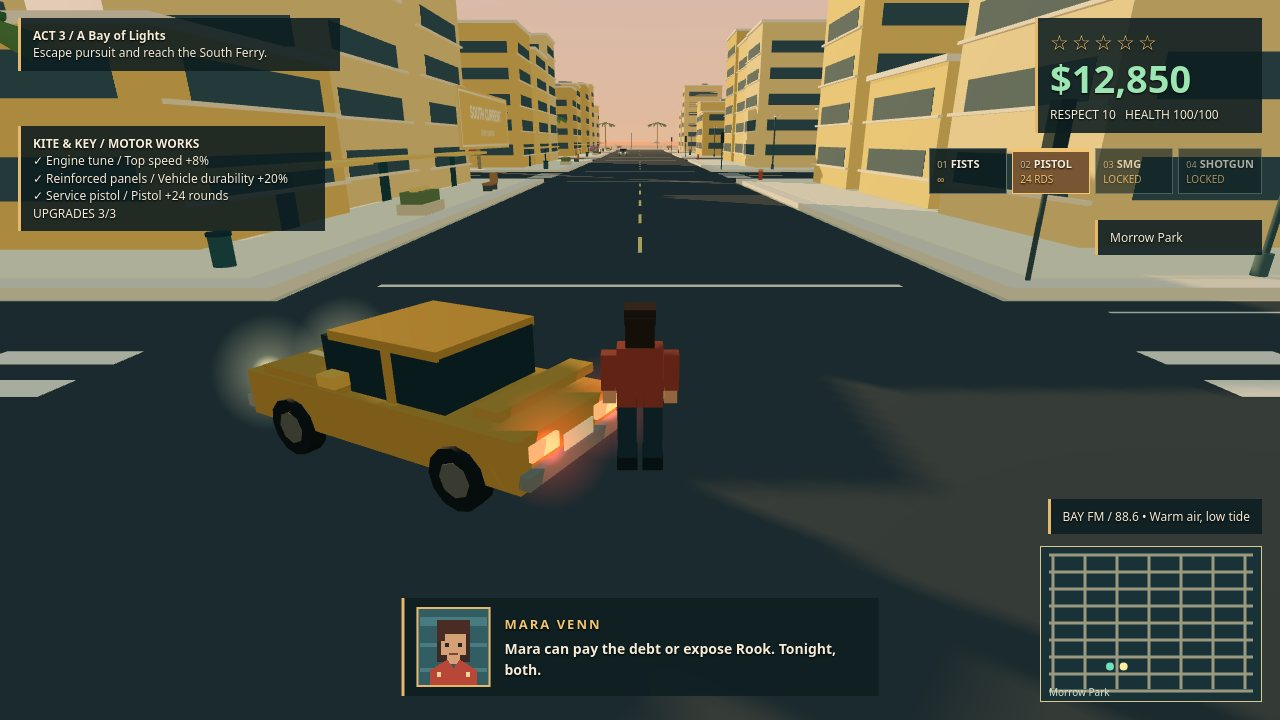
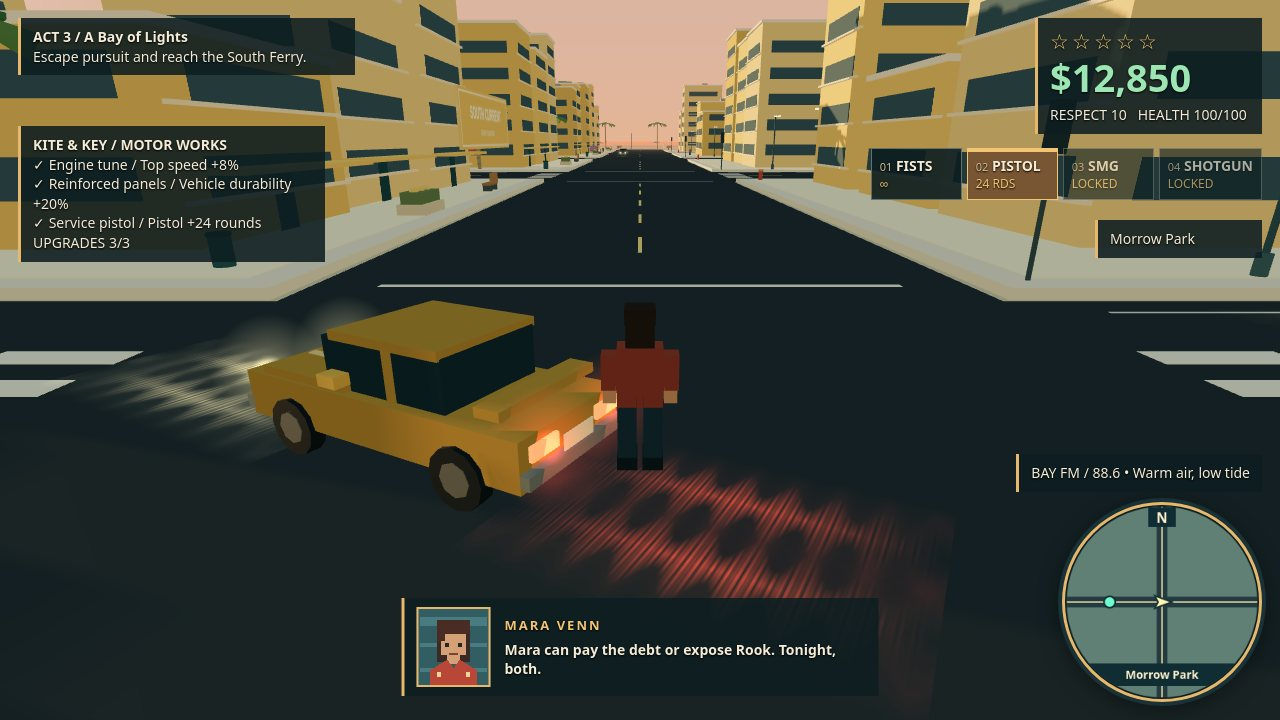
v2 phase 6: polish pass 2 (heli scale, circular minimap, explosion, wet road, lighting)

diff --git a/game/src/ui/Hud.js b/game/src/ui/Hud.js
@@ -1,4 +1,4 @@
-const style = `position:fixed;color:#f4ecd7;background:rgba(14,30,34,.88);border-left:3px solid #e6b86e;padding:9px 12px;font:12px/1.45 system-ui,sans-serif;letter-spacing:0;max-width:310px;text-shadow:0 1px 2px #000`;
+const style = `position:fixed;color:#f4ecd7;background:rgba(14,30,34,.88);border-left:3px solid #e6b86e;padding:9px 12px;font:14px/1.4 system-ui,sans-serif;letter-spacing:0;max-width:310px;text-shadow:0 1px 2px #000`;
 
 // Original pixel busts stay sharp at contact-sheet scale without image requests.
 function portrait(speaker) {
@@ -17,29 +17,46 @@ export class Hud {
   constructor() {
     this.nodes = Object.fromEntries(['mission','status','dispatch','garage','minimap','vehicle','dialogue','radio','weapons'].map(id => [id, document.getElementById(id)]));
     for (const node of Object.values(this.nodes)) { node.style.cssText = style; }
-    Object.assign(this.nodes.mission.style, { left: '18px', top: '18px', width: '295px' });
+    Object.assign(this.nodes.mission.style, { left: '18px', top: '18px', width: '310px' });
     Object.assign(this.nodes.status.style, { right: '18px', top: '18px', minWidth: '200px' });
     Object.assign(this.nodes.dispatch.style, { left: '18px', top: '126px', width: '260px' });
     Object.assign(this.nodes.garage.style, { left: '18px', top: '126px', width: '280px' });
-    Object.assign(this.nodes.minimap.style, { right: '18px', bottom: '18px', width: '220px', height: '154px', padding: '0', border: '1px solid #dbc68e' });
+    Object.assign(this.nodes.minimap.style, { right: '18px', bottom: '18px', width: '194px', height: '194px', padding: '0', border: '3px solid #e6b86e', borderRadius: '50%', overflow: 'hidden', boxShadow: '0 0 0 4px #183238, 0 5px 22px #0008' });
     Object.assign(this.nodes.vehicle.style, { right: '18px', top: '220px', minWidth: '140px' });
     Object.assign(this.nodes.dialogue.style, { left: '50%', bottom: '24px', transform: 'translateX(-50%)', width: 'min(450px, 64vw)', maxWidth: '450px', display: 'flex', alignItems: 'center', gap: '14px', fontSize: '14px' });
-    Object.assign(this.nodes.radio.style, { right: '18px', bottom: '186px' });
+    Object.assign(this.nodes.radio.style, { right: '18px', bottom: '228px' });
     Object.assign(this.nodes.weapons.style, { right: '18px', top: '148px', maxWidth: 'none', display: 'flex', gap: '5px', padding: '0', border: 'none', background: 'none' });
-    this.nodes.minimap.innerHTML = '<canvas width="220" height="154" aria-label="District minimap"></canvas>';
+    this.nodes.minimap.innerHTML = '<canvas width="240" height="240" aria-label="Circular district minimap with police search zone"></canvas>';
     this.map = this.nodes.minimap.querySelector('canvas').getContext('2d');
   }
   drawMap(snapshot, city, police) {
-    const c = this.map; c.clearRect(0,0,220,154); c.fillStyle='#183238'; c.fillRect(0,0,220,154);
-    c.strokeStyle='#9c9880'; c.lineWidth=3;
-    for (let x=0;x<7;x++){const px=12+x*32;c.beginPath();c.moveTo(px,8);c.lineTo(px,142);c.stroke();}
-    for (let y=0;y<9;y++){const py=8+y*17;c.beginPath();c.moveTo(8,py);c.lineTo(212,py);c.stroke();}
-    const point=(x,z,color,r)=>{c.fillStyle=color;c.beginPath();c.arc(110+(x/500)*190,77+(z/660)*130,r,0,Math.PI*2);c.fill();};
-    for(const car of police.units)point(car.position.x,car.position.z,'#ec6c59',3);
-    point(snapshot.player.x,snapshot.player.z,'#fff0a1',4);
-    if(snapshot.mission.active)point(snapshot.mission.active.target.x,snapshot.mission.active.target.z,'#70dfba',4);
-    c.fillStyle='#d3dfce';c.font='10px system-ui';c.fillText(snapshot.district.name,8,149);
+    const c = this.map, size = 240, mid = 120, scale = 1.8;
+    c.clearRect(0,0,size,size); c.save(); c.beginPath(); c.arc(mid,mid,118,0,Math.PI*2); c.clip();
+    c.fillStyle='#608076'; c.fillRect(0,0,size,size);
+    const xy = (x,z) => [mid+(x-snapshot.player.x)*scale, mid+(z-snapshot.player.z)*scale];
+    c.strokeStyle='#213b40'; c.lineWidth=13;
+    for (const x of city.roadsX) {const [px]=xy(x,0);c.beginPath();c.moveTo(px,0);c.lineTo(px,size);c.stroke();}
+    for (const z of city.roadsZ) {const [,py]=xy(0,z);c.beginPath();c.moveTo(0,py);c.lineTo(size,py);c.stroke();}
+    c.strokeStyle='#c0b78f'; c.lineWidth=2;
+    for (const x of city.roadsX) {const [px]=xy(x,0);c.beginPath();c.moveTo(px,0);c.lineTo(px,size);c.stroke();}
+    for (const z of city.roadsZ) {const [,py]=xy(0,z);c.beginPath();c.moveTo(0,py);c.lineTo(size,py);c.stroke();}
+    if(snapshot.wanted.level) {
+      c.beginPath(); c.arc(mid+12,mid-8,71,0,Math.PI*2);
+      c.fillStyle='rgba(243,93,66,.25)'; c.fill();
+      c.setLineDash([8,5]);c.strokeStyle='#ffab77';c.lineWidth=4;c.stroke();c.setLineDash([]);
+    }
+    const point=(x,z,color,r)=>{let [px,py]=xy(x,z);const d=Math.hypot(px-mid,py-mid);if(d>99){px=mid+(px-mid)*99/d;py=mid+(py-mid)*99/d;}c.beginPath();c.arc(px,py,r,0,Math.PI*2);c.fillStyle=color;c.fill();c.strokeStyle='#132c32';c.lineWidth=2;c.stroke();};
+    for(const car of police.units)point(car.position.x,car.position.z,'#ff7868',5);
+    if(snapshot.mission.active)point(snapshot.mission.active.target.x,snapshot.mission.active.target.z,'#70ffce',7);
+    c.save();c.translate(mid,mid);c.rotate(-(snapshot.player.heading || 0));
+    c.beginPath();c.moveTo(0,-12);c.lineTo(8,9);c.lineTo(0,5);c.lineTo(-8,9);c.closePath();c.fillStyle='#fff4b0';c.fill();c.strokeStyle='#183238';c.lineWidth=2;c.stroke();c.restore();
+    c.textAlign='center';c.font='bold 17px system-ui';
+    c.fillStyle='#102d34';c.fillRect(103,3,34,24);c.fillStyle='#fff1cc';c.fillText('N',120,22);
+    c.fillStyle='#102d34';c.fillRect(17,196,206,28);c.fillStyle='#fff1cc';
+    c.font='bold 14px system-ui';c.fillText(snapshot.wanted.level?'SEARCH ZONE':snapshot.district.name,120,215);
+    c.restore();
   }
+
   update(snapshot, city, dispatch, police) {
     const mission=snapshot.mission; this.nodes.mission.innerHTML=mission.active?`<b>ACT ${mission.active.act} / ${mission.active.name}</b><br>${mission.active.objective}`:'<b>STORY / Select a job</b>';
     const stars='★'.repeat(snapshot.wanted.level)+'☆'.repeat(5-snapshot.wanted.level);
@@ -50,7 +67,7 @@ export class Hud {
     if (police.heli) rows.push({ name:'Air 1', distance:distance(police.heli.root.position), status:'SEARCHLIGHT', color:'#438cb0' });
     rows.sort((a,b)=>a.distance-b.distance);
     const message = dispatch.snapshot()[0];
-    this.nodes.dispatch.innerHTML=rows.length?`<div style="display:flex;justify-content:space-between;border-bottom:1px solid #69706a;padding-bottom:7px;margin-bottom:5px;letter-spacing:1px"><b>VBPD / DISPATCH</b><span>${rows.length} UNITS</span></div>${rows.map(row=>`<div style="display:grid;grid-template-columns:1fr 44px 96px;gap:6px;align-items:center;margin:5px 0"><b>${row.name}</b><span style="text-align:right">${row.distance} m</span><b style="background:${row.color};padding:2px 4px;text-align:center;font-size:10px;letter-spacing:.5px">${row.status}</b></div>`).join('')}${message?`<div style="font-size:10px;color:#c9c9b6;border-top:1px solid #69706a;padding-top:6px;margin-top:7px">${message.text}</div>`:''}`:'';
+    this.nodes.dispatch.innerHTML=rows.length?`<div style="display:flex;justify-content:space-between;border-bottom:1px solid #69706a;padding-bottom:7px;margin-bottom:5px;letter-spacing:1px"><b>VBPD / DISPATCH</b><span>${rows.length} UNITS</span></div>${rows.map(row=>`<div style="display:grid;grid-template-columns:1fr 36px 106px;gap:6px;align-items:center;margin:5px 0"><b>${row.name}</b><span style="text-align:right">${row.distance} m</span><b style="background:${row.color};padding:2px 4px;text-align:center;font-size:12px;letter-spacing:.3px">${row.status}</b></div>`).join('')}${message?`<div style="font-size:10px;color:#c9c9b6;border-top:1px solid #69706a;padding-top:6px;margin-top:7px">${message.text}</div>`:''}`:'';
     const owned=snapshot.shop.catalog.filter(item=>item.owned);
     this.nodes.garage.innerHTML=owned.length?`<b>KITE &amp; KEY / MOTOR WORKS</b><br>${owned.map(item=>`✓ ${item.name} / ${item.effect}`).join('<br>')}<br>UPGRADES ${owned.length}/${snapshot.shop.catalog.length}`:'';
     this.nodes.vehicle.innerHTML=snapshot.player.mode==='driving'?`<b style="color:#f1c573;letter-spacing:1px">${snapshot.vehicleName.toUpperCase()}</b><div><b style="font-size:60px;line-height:1.05;font-variant-numeric:tabular-nums">${Math.round(Math.abs(snapshot.player.speed)*3.6)}</b> <b>km/h</b></div>`:snapshot.district.name;
@@ -59,7 +76,7 @@ export class Hud {
     const line = dialogue.includes(' / ') ? dialogue.split(' / ').slice(1).join(' / ') : dialogue;
     this.nodes.dialogue.innerHTML=`${portrait(speaker)}<div><b style="color:#f1c573;letter-spacing:2px;font-size:13px">${speaker}</b><div style="font-weight:650;margin-top:5px">${line}</div></div>`;
     this.nodes.radio.textContent='BAY FM / 88.6  •  Warm air, low tide';
-    this.nodes.weapons.innerHTML=[['FISTS','∞','punch'],['PISTOL',`${snapshot.combat.ammo} RDS`,'pistol'],['SMG','LOCKED','locked'],['SHOTGUN','LOCKED','locked']].map(([name,ammo,key],index)=>`<div style="min-width:62px;padding:6px 7px;border:1px solid ${snapshot.combat.weapon===key?'#f1c573':'#65716a'};background:${snapshot.combat.weapon===key?'#795633':'rgba(14,30,34,.9)'};box-shadow:${snapshot.combat.weapon===key?'inset 0 3px #f1c573':'none'};opacity:${key==='locked'?.65:1}"><span style="font-size:9px;color:#cfbd95">0${index+1}</span> <b style="font-size:11px">${name}</b><div style="font-size:10px;color:#f1c573">${ammo}</div></div>`).join('');
+    this.nodes.weapons.innerHTML=[['FISTS','∞','punch'],['PISTOL',`${snapshot.combat.ammo} RDS`,'pistol'],['SMG','LOCKED','locked'],['SHOTGUN','LOCKED','locked']].map(([name,ammo,key],index)=>`<div style="min-width:73px;padding:7px 8px;border:1px solid ${snapshot.combat.weapon===key?'#f1c573':'#65716a'};background:${snapshot.combat.weapon===key?'#795633':'rgba(14,30,34,.9)'};box-shadow:${snapshot.combat.weapon===key?'inset 0 3px #f1c573':'none'};opacity:${key==='locked'?.65:1}"><span style="font-size:11px;color:#cfbd95">0${index+1}</span> <b style="font-size:14px">${name}</b><div style="font-size:12px;color:#f1c573">${ammo}</div></div>`).join('');
     this.drawMap(snapshot,city,police);
   }
 }

diff --git a/game/src/shots/ShotScenes.js b/game/src/shots/ShotScenes.js
@@ -1,3 +1,5 @@
+import { VehicleFire } from '../render/VehicleFire.js';
+
 const STAGES = {
   coverHeliChase: { x: 72, z: -72, hour: 17.2, money: 4280, respect: 2, wanted: 3, mission: 2, driving: true, health: 79, ammo: 19, heli: true },
   driveCarjacking: { x: -72, z: 72, hour: 16.4, money: 5350, respect: 4, wanted: 1, mission: 5, driving: true, health: 92, ammo: 22 },
@@ -9,6 +11,11 @@ export function createShotScenes(app) {
   const stage = name => {
     const config = STAGES[name]; if (!config) throw Error(`Unknown ShotScene: ${name}`);
     const { state, player, vehicles, systems } = app;
+    app.vehicleFire?.dispose(app.scene); app.vehicleFire = null;
+    if (app.burnedCar) {
+      app.scene.remove(app.burnedCar.group);
+      vehicles.cars.splice(vehicles.cars.indexOf(app.burnedCar), 1); app.burnedCar = null;
+    }
     for (const car of [...systems.police.units]) {
       app.scene.remove(car.group);
       app.vehicles.cars.splice(app.vehicles.cars.indexOf(car), 1);
@@ -24,6 +31,10 @@ export function createShotScenes(app) {
       systems.weapons.spawnEnemy(config.x + 4.2, config.z - 6.5, 3, { aimAt: player.target, muzzleFlash: true });
       systems.weapons.spawnEnemy(config.x - 4.2, config.z - 7.5, 2, { aimAt: player.target });
     }
+    if (config.enemies) {
+      app.burnedCar = vehicles.spawn(config.x + 7.5, config.z - 17, -0.65, { model: 0, color: '#302c29' });
+      app.vehicleFire = new VehicleFire(app.scene, config.x + 7.5, config.z - 18);
+    }
     if (config.driving) {
       let car = player.car;
       if (!car) { car = vehicles.spawn(config.x, config.z, -0.3, { model: 0, color: '#b94737' }); vehicles.acquire(car); player.car = car; player.avatar.visible = false; }
@@ -35,7 +46,9 @@ export function createShotScenes(app) {
       systems.wanted.commitCrime(3); systems.wanted.setLevel(3);
       systems.dispatch.messages = [{ callsign: 'Harbor 12', text: 'Air unit has a visual. Road control ahead. All units converge.', district: state.city.districtAt(config.x,config.z).name, age: 0 }];
       systems.police.ensure(3, player);
-      systems.police.heli.offset = { x: 2, y: -5, z: -15 };
+      systems.police.heli.root.scale.setScalar(2.1);
+      systems.police.heli.offset = { x: 1, y: -11, z: -11 };
+      systems.police.heli.yawOffset = 0.65;
       const pursuit = systems.police.units[0];
       pursuit.position.set(player.target.x + Math.sin(player.facing) * 8, 0.12, player.target.z + Math.cos(player.facing) * 8);
       pursuit.heading = player.facing; pursuit.shotPursuitSpeed = 19; app.vehicles.animate(pursuit, 0);

diff --git a/game/src/render/VehicleFire.js b/game/src/render/VehicleFire.js
@@ -1,0 +1,45 @@
+import * as THREE from 'three';
+
+// Procedural particles only: no downloaded textures or postprocessing pass.
+export class VehicleFire {
+  constructor(scene, x, z) {
+    this.root = new THREE.Group(); this.root.name = 'Burning getaway car / flame and smoke';
+    this.root.position.set(x, 0, z); scene.add(this.root);
+    this.time = 1.7; this.particles = [];
+    const canvas = document.createElement('canvas'); canvas.width = canvas.height = 64;
+    const c = canvas.getContext('2d'), gradient = c.createRadialGradient(32,32,0,32,32,32);
+    gradient.addColorStop(0,'#ffffffff'); gradient.addColorStop(.25,'#ffffffee');
+    gradient.addColorStop(.6,'#ffffff66'); gradient.addColorStop(1,'#ffffff00');
+    c.fillStyle=gradient; c.fillRect(0,0,64,64); this.texture=new THREE.CanvasTexture(canvas);
+    for(let i=0;i<10;i++) {
+      const sprite=new THREE.Sprite(new THREE.SpriteMaterial({map:this.texture,color:i%3===0?'#fff3a5':'#ff680b',blending:THREE.AdditiveBlending,transparent:true,depthWrite:false,toneMapped:false}));
+      this.root.add(sprite);this.particles.push({sprite,smoke:false,index:i});
+    }
+    for(let i=0;i<7;i++) {
+      const sprite=new THREE.Sprite(new THREE.SpriteMaterial({map:this.texture,color:i%2?'#322d32':'#51404a',transparent:true,opacity:.72,depthWrite:false}));
+      this.root.add(sprite);this.particles.push({sprite,smoke:true,index:i});
+    }
+    this.light=new THREE.PointLight('#ff7924',95,24,1.5);this.light.position.set(0,2.3,0);this.root.add(this.light);
+    this.update(0);
+  }
+  update(dt) {
+    this.time+=dt;
+    for(const {sprite,smoke,index:i} of this.particles) {
+      const wave=Math.sin(this.time*7+i*2.3);
+      if(smoke) {
+        const rise=(this.time*.2+i/7)%1;
+        sprite.position.set(.4+rise*1.7+Math.sin(i*2)*.5,3+rise*7,Math.cos(i*2)*.7);
+        sprite.scale.set(2.4+rise*3.2,2.8+rise*3.5,1);sprite.material.opacity=.65*(1-rise*.8);
+      } else {
+        const h=1.3+(i%4)*.65+wave*.2;
+        sprite.position.set(Math.sin(i*2.4)*1.15,h,Math.cos(i*2.4)*1.2);
+        sprite.scale.set(1.15+(i%3)*.35,2.8+wave*.6+(i%3)*.7,1);
+      }
+    }
+    this.light.intensity=95+Math.sin(this.time*11)*15;
+  }
+  dispose(scene) {
+    scene.remove(this.root);this.texture.dispose();
+    this.particles.forEach(({sprite})=>sprite.material.dispose());this.light.dispose();
+  }
+}

diff --git a/game/src/police/PoliceAI.js b/game/src/police/PoliceAI.js
@@ -16,6 +16,14 @@ export class PoliceAI {
     const tail = new THREE.Mesh(new THREE.CylinderGeometry(0.22, 0.32, 4.1, 8), this.material); tail.rotation.x = Math.PI / 2; tail.position.set(0, 9.08, -3.65); root.add(tail);
     const fin = new THREE.Mesh(new THREE.BoxGeometry(0.2, 1.15, 0.72), this.material); fin.position.set(0, 9.5, -5.38); root.add(fin);
     const stabilizer = new THREE.Mesh(new THREE.BoxGeometry(2.25, 0.12, 0.7), this.material); stabilizer.position.set(0, 9.05, -5.05); root.add(stabilizer);
+    for (const x of [-1.25, 1.25]) {
+      const skid = new THREE.Mesh(new THREE.CylinderGeometry(0.07, 0.07, 4.8, 6), this.material);
+      skid.rotation.x = Math.PI / 2; skid.position.set(x, 7.95, 0.1); root.add(skid);
+      for (const z of [-1, 1]) {
+        const strut = new THREE.Mesh(new THREE.CylinderGeometry(0.06, 0.06, 0.8, 6), this.material);
+        strut.position.set(x, 8.3, z); root.add(strut);
+      }
+    }
     const lamp = new THREE.SpotLight('#fff0b2', 2.5, 75, Math.PI / 7, 0.5, 1.2);
     lamp.position.set(0, 8.4, 1.8); lamp.target.position.set(0, 0, -5); root.add(lamp, lamp.target);
     const rotor = new THREE.Mesh(new THREE.BoxGeometry(8, 0.08, 0.16), this.blue); rotor.position.y = 9.8; root.add(rotor);
@@ -65,7 +73,7 @@ export class PoliceAI {
       const root = this.heli.root;
       const offset = this.heli.offset;
       root.position.set(player.target.x + offset.x, offset.y, player.target.z + offset.z);
-      root.rotation.y = player.facing;
+      root.rotation.y = player.facing + (this.heli.yawOffset || 0);
       this.heli.rotor.rotation.y += dt * 18;
       root.updateMatrixWorld(true);
       const target = player.target.clone();

diff --git a/game/src/render/SkyAndSun.js b/game/src/render/SkyAndSun.js
@@ -19,8 +19,8 @@ const SKY_FRAGMENT = `
     float altitude = max(0.0, direction.y);
     vec3 color = mix(horizon, zenith, pow(altitude, 0.48));
     float alignment = max(0.0, dot(direction, sunDirection));
-    float glow = pow(alignment, 18.0) * 0.35;
-    float disc = smoothstep(0.9993, 0.99965, alignment);
+    float glow = pow(alignment, 12.0) * 0.65;
+    float disc = smoothstep(0.9988, 0.99955, alignment);
     color += solarColor * (glow + disc * 1.5);
     gl_FragColor = vec4(color, 1.0);
     #include <tonemapping_fragment>
@@ -82,14 +82,14 @@ export class SkyAndSun {
     const daylight = THREE.MathUtils.smoothstep(elevation, -0.13, 0.22);
     const golden = 1 - THREE.MathUtils.smoothstep(Math.max(0, elevation), 0.15, 0.65);
     // Sunset toward the northwest, visible along the principal boulevards.
-    this.sunDirection.set(-Math.cos(arc) * 0.65, Math.max(-0.2, elevation), -0.75).normalize();
+    this.sunDirection.set(-Math.cos(arc) * 0.30, Math.max(-0.2, elevation * 0.38), -0.95).normalize();
     const nightZenith = new THREE.Color('#142b48');
     const dayZenith = new THREE.Color('#76b7cc');
     const warmZenith = new THREE.Color('#d69a82');
     const dayHorizon = new THREE.Color('#d7ddd1');
-    const warmHorizon = new THREE.Color('#ff934d');
+    const warmHorizon = new THREE.Color('#ff853f');
     const nightHorizon = new THREE.Color('#63586b');
-    dayZenith.lerp(warmZenith, golden * 0.75);
+    dayZenith.lerp(warmZenith, golden * 0.9);
     dayHorizon.lerp(warmHorizon, golden);
     this.uniforms.zenith.value.copy(nightZenith).lerp(dayZenith, daylight);
     this.uniforms.horizon.value.copy(nightHorizon).lerp(dayHorizon, daylight);

diff --git a/game/src/render/RoadSheen.js b/game/src/render/RoadSheen.js
@@ -1,0 +1,23 @@
+import * as THREE from 'three';
+
+// Broken, stretched light decals approximate reflections without a render target.
+let texture;
+export function reflectedLight(color, width = 0.8, length = 5, opacity = 0.5) {
+  if (!texture) {
+    const canvas=document.createElement('canvas');canvas.width=64;canvas.height=256;
+    const c=canvas.getContext('2d');
+    for(let y=0;y<256;y++) {
+      const fade=Math.pow(Math.sin(y/256*Math.PI),1.4);
+      const ripple=.55+.45*Math.sin(y*1.73)*Math.sin(y*.39);
+      const w=15+Math.sin(y*.21)*7;
+      const g=c.createLinearGradient(0,0,64,0);
+      g.addColorStop(0,'#fff0');g.addColorStop(.5-w/64,'#fff1');
+      g.addColorStop(.5,`rgba(255,255,255,${fade*ripple})`);
+      g.addColorStop(.5+w/64,'#fff1');g.addColorStop(1,'#fff0');
+      c.fillStyle=g;c.fillRect(0,y,64,1);
+    }
+    texture=new THREE.CanvasTexture(canvas);
+  }
+  const mesh=new THREE.Mesh(new THREE.PlaneGeometry(width,length),new THREE.MeshBasicMaterial({map:texture,color,transparent:true,opacity,blending:THREE.AdditiveBlending,depthWrite:false,toneMapped:false}));
+  mesh.rotation.x=-Math.PI/2;mesh.renderOrder=2;return mesh;
+}

diff --git a/game/src/world/Props.js b/game/src/world/Props.js
@@ -1,4 +1,5 @@
 import * as THREE from 'three';
+import { reflectedLight } from '../render/RoadSheen.js';
 import { GeometryBatch, seededRandom, makeSign } from './Geometry.js';
 
 /** Street furniture builds a readable human scale around the road network. */
@@ -56,7 +57,13 @@ export class Props {
     const dx = Math.sin(angle) * 1.2;
     const dz = Math.cos(angle) * 1.2;
     this.box('#486469', x + dx / 2, 7.1, z + dz / 2, 0.16, 0.16, 1.5, angle);
-    this.box('#f7deb1', x + dx, 7.05, z + dz, 0.65, 0.18, 1.05, angle);
+    this.batch.add('box', this.batch.material('#f7deb1'), [x + dx, 7.05, z + dz], [.65,.18,1.05], [0,angle,0]);
+    const lens=this.batch.material('#f7deb1');lens.emissive.set('#ffbf6c');lens.emissiveIntensity=2;
+    const roadX=this.city.roadsX.reduce((a,b)=>Math.abs(a-x)<Math.abs(b-x)?a:b);
+    if(Math.abs(roadX-x)<15) {
+      const reflection=reflectedLight('#ffbe70',1.6,8,.3);
+      reflection.position.set(roadX+Math.sign(x-roadX)*7.7,.145,z+dz);this.group.add(reflection);
+    }
   }
 
   hydrant(x, z) {

diff --git a/game/src/vehicles/Carjacking.js b/game/src/vehicles/Carjacking.js
@@ -1,4 +1,5 @@
 import * as THREE from 'three';
+import { reflectedLight } from '../render/RoadSheen.js';
 import { compactStaticMeshes } from '../world/Geometry.js';
 
 const PALETTE = ['#c9523d', '#e5c87e', '#527e86', '#eee0c2', '#344b59', '#a4829c', '#729889'];
@@ -102,6 +103,12 @@ export class Carjacking {
       }
     }
     compactStaticMeshes(group, () => true);
+    for (const side of [-1, 1]) {
+      for (const [end,color,length] of [[-1,'#ffe2a0',6],[1,'#ff3b21',4.5]]) {
+        const reflection=reflectedLight(color,2,length,.9);
+        reflection.position.set(side*w*.32,.018,end*(l/2+length*.4));group.add(reflection);
+      }
+    }
     group.position.set(x, 0.12, z);
     group.rotation.y = heading;
     this.scene.add(group);

diff --git a/game/src/main.js b/game/src/main.js
@@ -183,6 +183,7 @@ class VermilionBay {
     const district = this.city.districtAt(this.player.target.x, this.player.target.z);
     this.systems.dispatch.update(dt, this.state.values.wanted, district.name);
     this.systems.weapons.update(dt, this.input);
+    this.vehicleFire?.update(dt);
     this.systems.missions.update(dt);
     this.systems.reputation.update();
     this.systems.hud.update({ ...this.state.snapshot(), vehicleName: this.player.car?.spec.name || '' }, this.city, this.systems.dispatch, this.systems.police);
@@ -246,6 +247,7 @@ class VermilionBay {
       material.map?.dispose();
       material.dispose();
     });
+    this.vehicleFire?.dispose(this.scene);
     this.renderer.dispose();
     window.game.ready = false;
   }

diff --git a/game/src/world/CityBuilder.js b/game/src/world/CityBuilder.js
@@ -40,7 +40,7 @@ export class CityBuilder {
   }
 
   box(color, x, y, z, w, h, d, shadow = true) {
-    this.batch.add('box', this.batch.material(color), [x, y, z], [w, h, d], [0, 0, 0], shadow);
+    this.batch.add('box', this.batch.material(color, color === '#475356' ? 0.19 : 0.85, color === '#475356' ? 0.28 : 0), [x, y, z], [w, h, d], [0, 0, 0], shadow);
   }
 
   build() {
